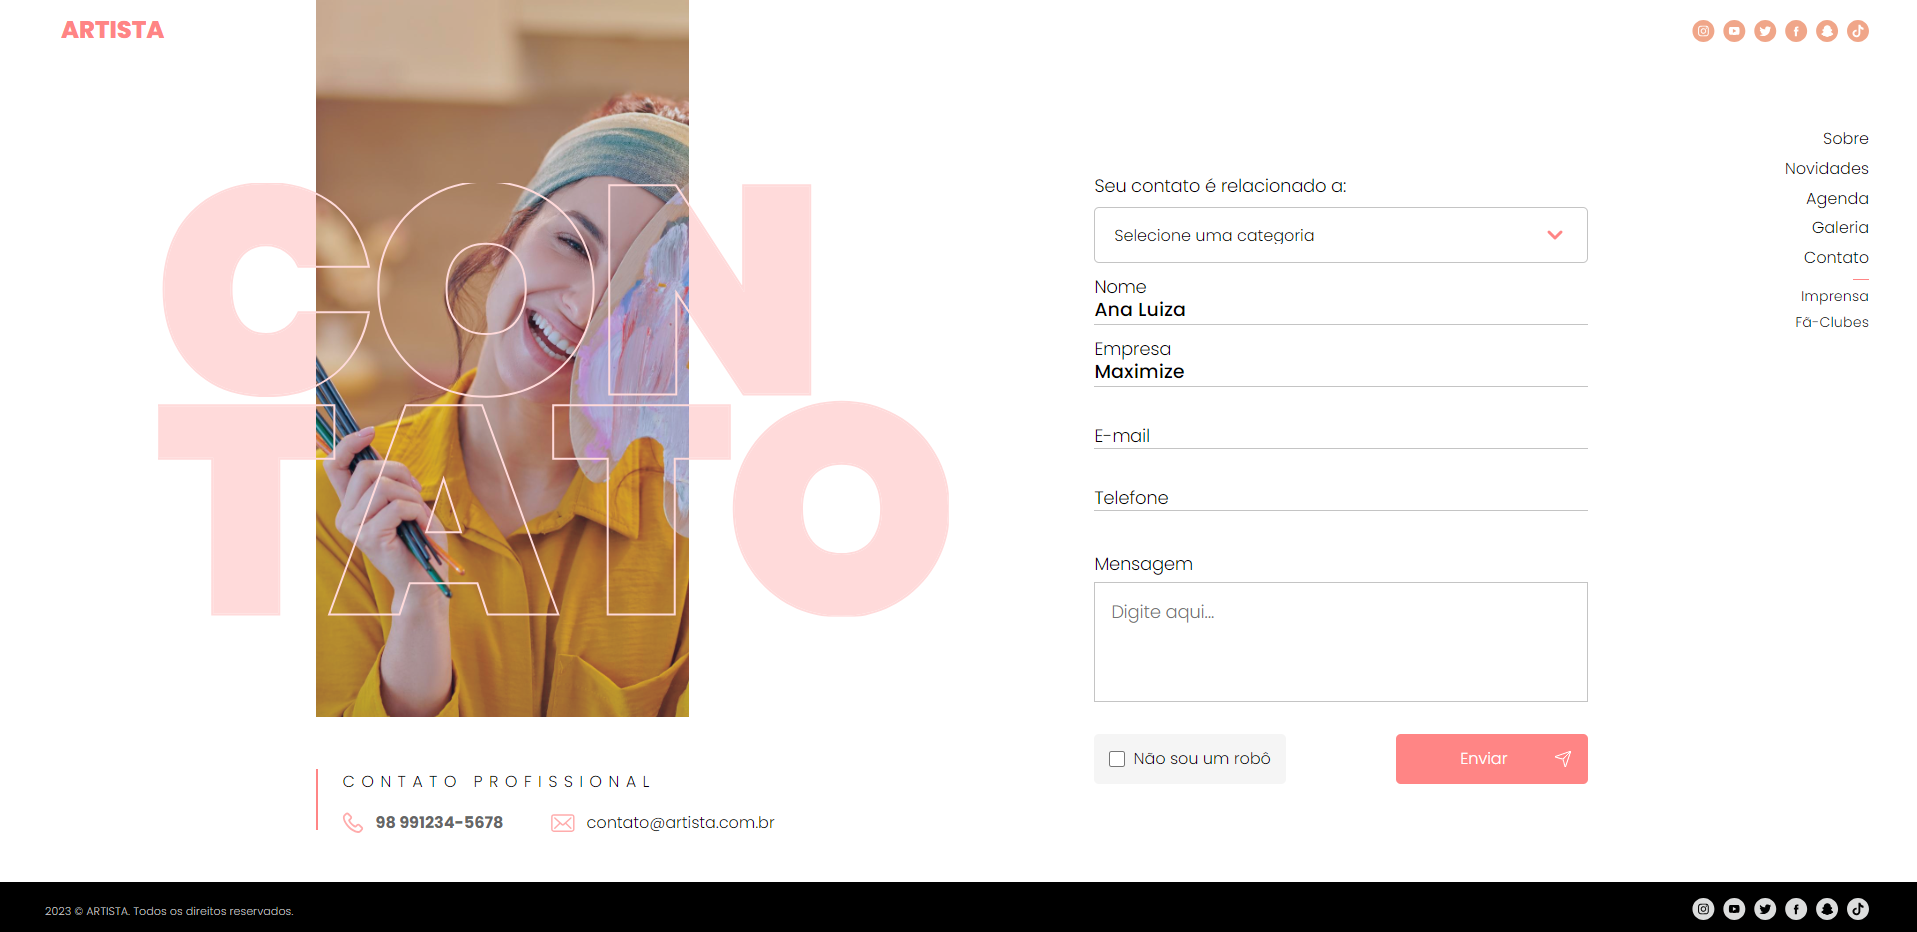
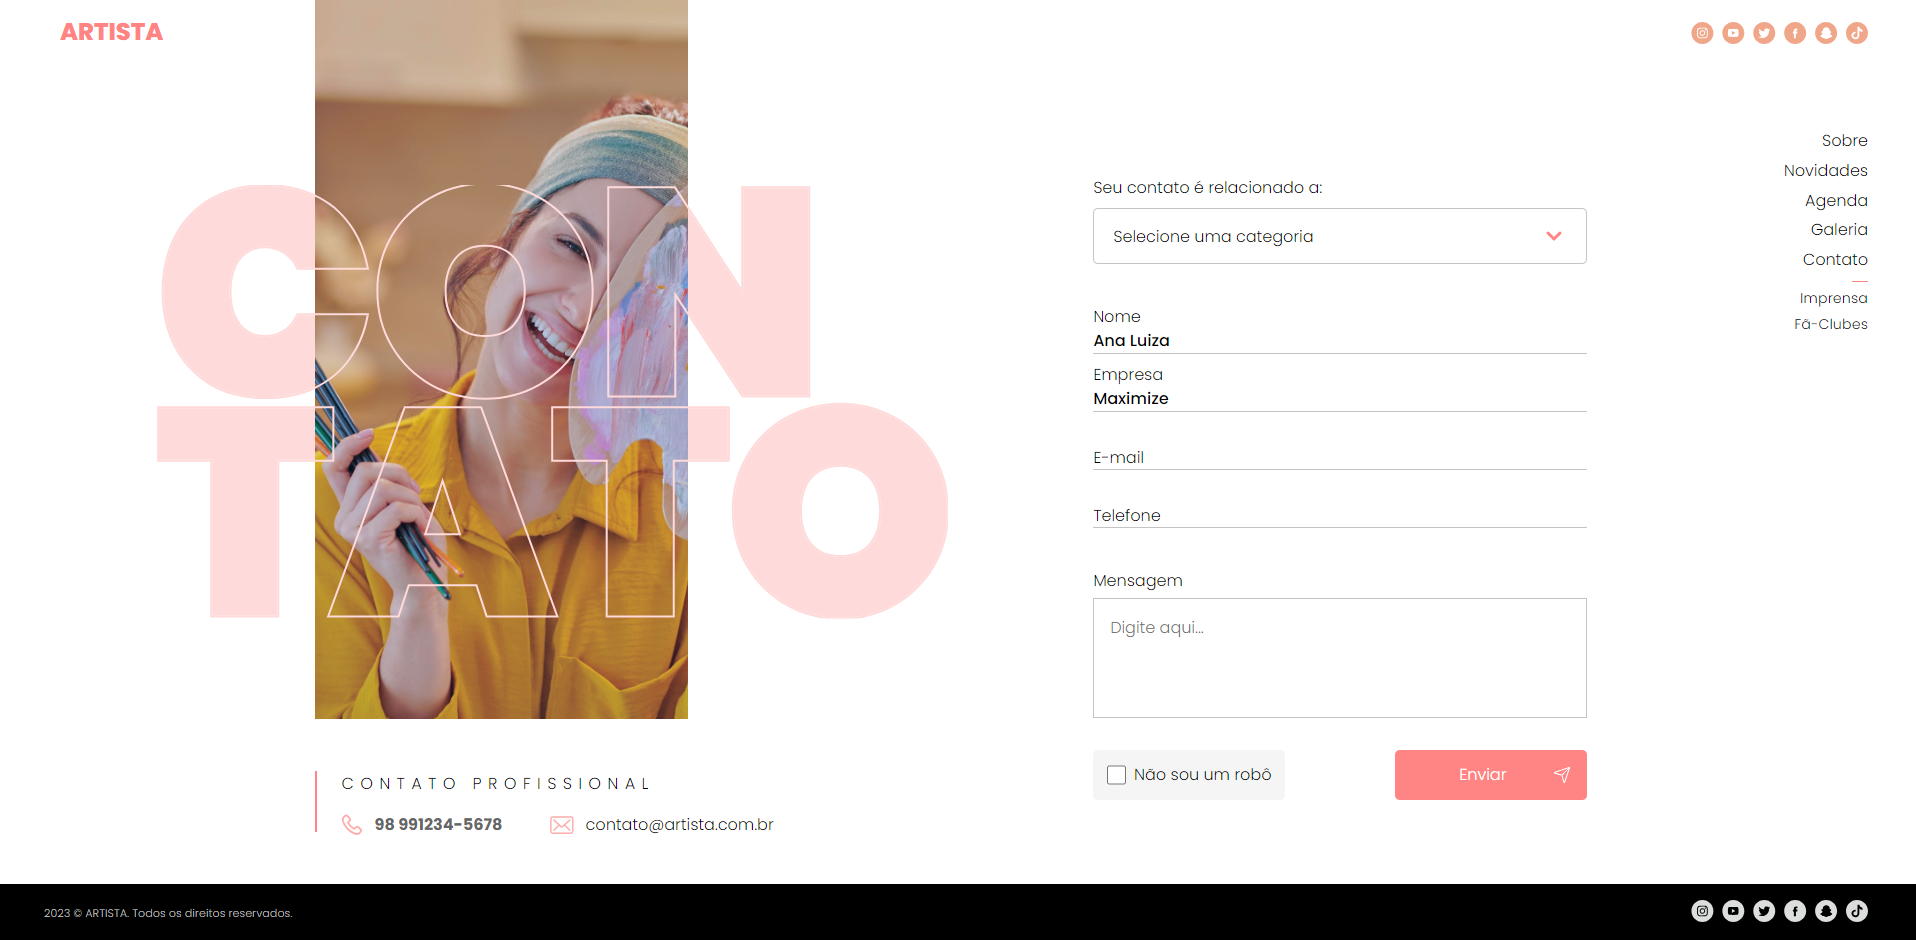
Font sizes and item scales refactored

diff --git a/public/css/app.css b/public/css/app.css
@@ -170,7 +170,7 @@ main {
 }
 .section-contact .form-contact .form-contact__select-label {
   font-family: PoppinsLight;
-  font-size: 1.1rem;
+  font-size: 1rem;
 }
 .section-contact .form-contact__select-container {
   position: relative;
@@ -201,7 +201,7 @@ main {
   background: #fff;
   cursor: pointer;
   font-family: inherit;
-  font-size: 16px;
+  font-size: 1rem;
   transition: all 150ms ease;
 }
 .section-contact .form-contact__option {
@@ -209,6 +209,9 @@ main {
 }
 .section-contact .form-contact__option[value=""][disabled] {
   display: none;
+}
+.section-contact .form-contact .form-contact__main-info {
+  margin-top: 2rem;
 }
 .section-contact .form-contact .form-contact__container-input {
   display: flex;
@@ -222,7 +225,7 @@ main {
   border-bottom: 1px solid #c4c4c4;
   padding: 1rem 0rem 0rem 0rem;
   outline: none;
-  font-size: 1.2rem;
+  font-size: 1rem;
   margin-top: 1rem;
   font-weight: 500;
   font-family: PoppinsMedium;
@@ -237,7 +240,7 @@ main {
   position: absolute;
   font-family: PoppinsLight;
   pointer-events: none;
-  font-size: 1.1rem;
+  font-size: 1rem;
   transition: 0.2s ease all;
 }
 .section-contact .form-contact .form-contact__label--active {
@@ -255,14 +258,14 @@ main {
 }
 .section-contact .form-contact .form-contact__message-label {
   font-family: PoppinsLight;
-  font-size: 1.1rem;
+  font-size: 1rem;
 }
 .section-contact .form-contact .form-contact__message-area {
   width: 90%;
   font-family: PoppinsMedium;
   resize: none;
   height: 7.5rem;
-  font-size: 1.1rem;
+  font-size: 1rem;
   font-weight: 500;
   outline: none;
   border: 1px solid #c4c4c4;
@@ -291,8 +294,8 @@ main {
   align-items: center;
   justify-content: center;
   font-family: PoppinsLight;
-  border: none;
   font-size: 1rem;
+  border: none;
   background-color: #ff8585;
   color: #fff;
   cursor: pointer;
@@ -315,13 +318,14 @@ main {
   align-items: center;
   justify-content: center;
   font-family: PoppinsLight;
+  font-size: 1rem;
   flex-direction: row-reverse;
   background: #f5f5f5;
   gap: 0rem 0.5rem;
 }
 .section-contact .form-contact .form-contact__checkbox {
-  width: 1rem;
-  height: 1rem;
+  width: 1.2rem;
+  height: 1.2rem;
   accent-color: #ff8585;
 }
 .footer-info-socials {
